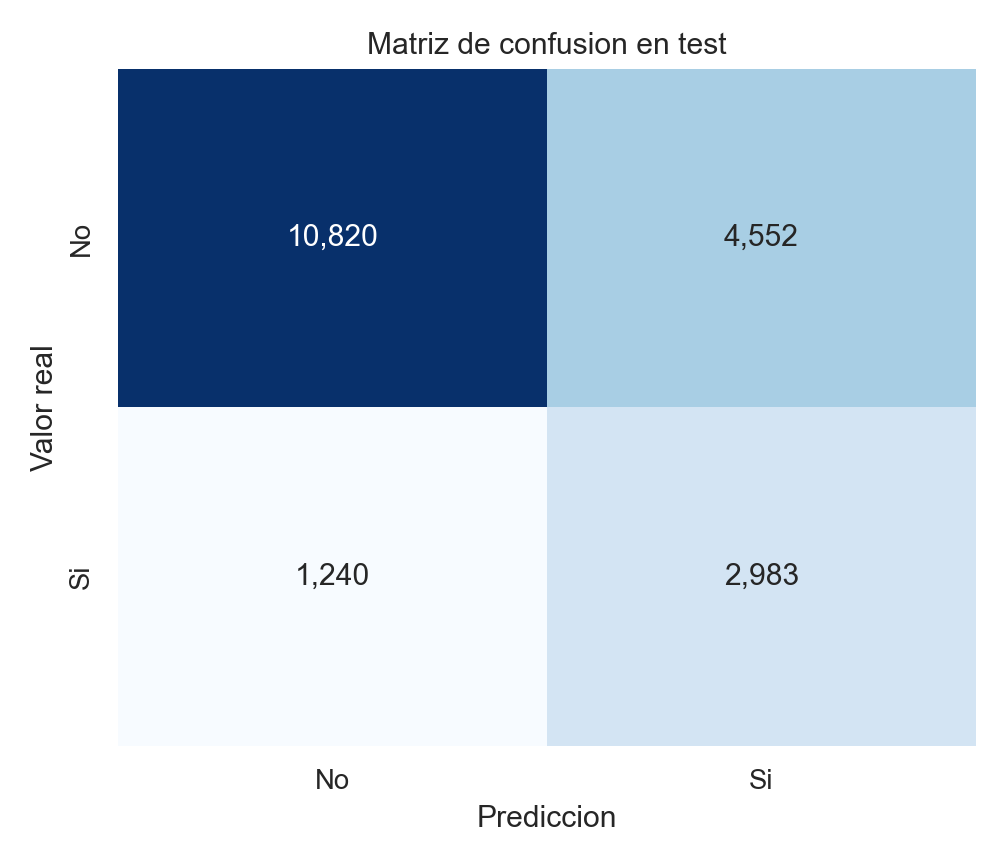
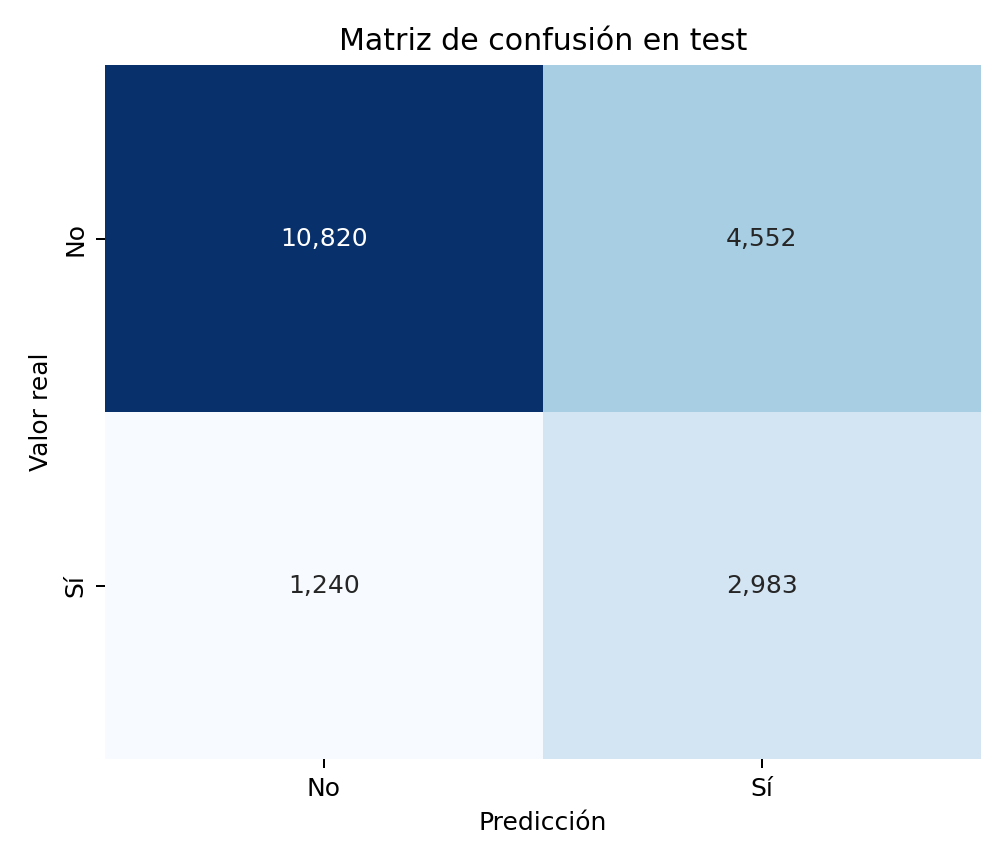
Actualiza trazabilidad y dependencias de la entrega

diff --git a/src/build_final_document.py b/src/build_final_document.py
@@ -226,7 +226,7 @@ def get_prompt_rows(notebook_path: Path) -> list[list[str]]:
         return []
     notebook = read_json(notebook_path)
     rows: list[list[str]] = []
-    pattern = re.compile(r"^### Prompt (\d{2}) — (.+)$", re.MULTILINE)
+    pattern = re.compile(r"^## (\d{2}) — (.+)$", re.MULTILINE)
     for cell in notebook.get("cells", []):
         if cell.get("cell_type") != "markdown":
             continue
@@ -265,7 +265,9 @@ def configure_document(document: Document) -> None:
 
 
 def build_document(args: argparse.Namespace) -> None:
-    root = args.output.parent.parent
+    # La raíz se obtiene desde el propio script para que el documento pueda
+    # guardarse directamente en la carpeta de entrega sin depender de su ruta.
+    root = Path(__file__).resolve().parent.parent
     reports = root / "reports"
     figures = root / "figures"
     results = read_json(reports / "resultados_modelado.json")
@@ -289,7 +291,7 @@ def build_document(args: argparse.Namespace) -> None:
     title.alignment = WD_ALIGN_PARAGRAPH.CENTER
     subtitle = document.paragraphs[1].insert_paragraph_before(
         "Clasificación de presentaciones del Código Único de Medicamentos como muestra médica\n"
-        "Brayam Arboleda Diaz · Saul Dario Gomez · Corte 21/09/2026"
+        "Brayam Arboleda Diaz · Saul Dario Gomez · Corte de datos 21/09/2026 · Revisión 30/09/2026"
     )
     subtitle.alignment = WD_ALIGN_PARAGRAPH.CENTER
     for run in subtitle.runs:
@@ -630,9 +632,9 @@ def build_document(args: argparse.Namespace) -> None:
         ["Artefacto", "Ubicación/enlace", "Estado"],
         [
             ["Dataset snapshot", "data/codigo_unico_medicamentos_vigentes_20260921.csv", "Incluido; SHA-256 verificable"],
-            ["Notebook Colab", args.colab_url, "Público"],
-            ["GitHub", args.github_url, "Público"],
-            ["Streamlit", args.streamlit_url, "Activo"],
+            ["Notebook Colab", args.colab_url, "Público y ejecutado sin errores"],
+            ["GitHub", args.github_url, "Público; rama main actualizada"],
+            ["Streamlit", args.streamlit_url, "Público, activo y funcional"],
             ["Pipeline", "models/pipeline_muestra_medica.joblib", "Recargado y probado"],
             ["Metadata", "models/metadata_modelo.json", "Validado"],
             ["Profiling", "reports/reporte_ydata_profiling.html", "Completo: 155.807 filas"],
@@ -653,11 +655,60 @@ def build_document(args: argparse.Namespace) -> None:
     for conclusion in conclusions:
         document.add_paragraph(f"• {conclusion}")
 
+    deliverables_heading = add_heading(document, "9. Verificación de los seis entregables", 1)
+    deliverables_heading.paragraph_format.page_break_before = True
+    deliverables_table = add_table(
+        document,
+        ["N.º", "Entregable solicitado", "Ubicación o enlace", "Verificación final"],
+        [
+            [
+                "1",
+                "Documento completo con metodología CRISP-DM",
+                "Formato_Entrega_Proyecto_Integrador_CUM.docx",
+                "Completo: fases 1 a 6, evidencia, conclusiones y anexos",
+            ],
+            [
+                "2",
+                "Dataset utilizado",
+                "data/codigo_unico_medicamentos_vigentes_20260921.csv",
+                "Incluido; corte 21/09/2026 y SHA-256 registrado",
+            ],
+            [
+                "3",
+                "Enlace público a Google Colab",
+                "Abrir Google Colab",
+                "Público; ejecución rápida completa verificada",
+            ],
+            [
+                "4",
+                "Repositorio de GitHub",
+                "Abrir repositorio GitHub",
+                "Incluye app.py, pipeline, requirements.txt y README.md",
+            ],
+            [
+                "5",
+                "URL activa de Streamlit.io",
+                "Abrir aplicación Streamlit",
+                "Pública, activa y con predicción funcional verificada",
+            ],
+            [
+                "6",
+                "Reporte HTML generado con ydata-profiling",
+                "reports/reporte_ydata_profiling.html",
+                "Incluido: 7.980.306 bytes y 155.807 filas perfiladas",
+            ],
+        ],
+    )
+    add_hyperlink(deliverables_table.cell(3, 2), "Abrir Google Colab", args.colab_url)
+    add_hyperlink(deliverables_table.cell(4, 2), "Abrir repositorio GitHub", args.github_url)
+    add_hyperlink(deliverables_table.cell(5, 2), "Abrir aplicación Streamlit", args.streamlit_url)
+
     add_heading(document, "Anexo A. Registro de prompts", 1)
-    prompt_rows = get_prompt_rows(root / "notebooks" / "Proyecto_Final_ML_CUM.ipynb")
+    prompt_rows = get_prompt_rows(root / "notebook" / "Proyecto_Final_ML_CUM.ipynb")
     add_table(document, ["ID", "Propósito", "Verificación humana"], prompt_rows)
 
-    add_heading(document, "Anexo B. Trazabilidad técnica", 1)
+    technical_heading = add_heading(document, "Anexo B. Trazabilidad técnica", 1)
+    technical_heading.paragraph_format.page_break_before = True
     add_table(
         document,
         ["Elemento", "Valor"],

diff --git a/src/build_notebook.py b/src/build_notebook.py
@@ -165,6 +165,7 @@ def build_notebook() -> nbf.NotebookNode:
             "pandas": "pandas",
             "scipy": "scipy",
             "sklearn": "scikit-learn",
+            "sklearn_compat": "sklearn-compat==0.1.6",
             "imblearn": "imbalanced-learn==0.14.2",
             "matplotlib": "matplotlib",
             "seaborn": "seaborn",
@@ -574,7 +575,7 @@ def build_notebook() -> nbf.NotebookNode:
 
     prompt(
         13,
-        "DDistribución del objetivo y las líneas base",
+        "Distribución del objetivo y las líneas base",
         "Calcula prevalencia por presentación, accuracy de la clase mayoritaria y PR-AUC "
         "esperada al azar. Grafica conteos y porcentajes con etiquetas legibles.",
     )

diff --git a/README.md b/README.md
@@ -75,25 +75,25 @@ El conjunto de entrenamiento contiene **45.740 presentaciones (6.706 expedientes
 | Modelo | F1 CV agrupada, media ± DE | F1 en test |
 |---|---:|---:|
 | Regresión logística | 0,4846 ± 0,0097 | 0,4890 |
-| SVM lineal | 0,4831 ± 0,0086 | 0,4866 |
+| SVM lineal | 0,4830 ± 0,0085 | 0,4865 |
 | Red neuronal MLP | 0,4918 ± 0,0065 | 0,4924 |
 | Árbol de decisión | 0,4880 ± 0,0114 | 0,4908 |
-| K vecinos más cercanos | 0,4700 ± 0,0098 | 0,4589 |
+| K vecinos más cercanos | 0,4699 ± 0,0089 | 0,4587 |
 | Votación | 0,5016 ± 0,0066 | 0,5059 |
-| **Bagging** | **0,5061 ± 0,0032** | **0,5082** |
+| **Bagging** | **0,5063 ± 0,0032** | **0,5074** |
 | Boosting AdaBoost | 0,4862 ± 0,0128 | 0,4844 |
 | Regresión logística ajustada | 0,4851 ± 0,0104 | 0,4889 |
 | SVM lineal ajustada | 0,4874 ± 0,0113 | 0,4858 |
 
-Se seleccionó **Bagging** antes de abrir el test. Superó a la regresión logística ajustada por **0,0211 F1** en validación, por encima del margen práctico de 0,02. La prueba de Friedman indicó diferencias globales (`p = 0,000229`) y la comparación pareada Bagging–logística ajustada conservó significancia tras corrección de Holm (`p ajustado = 0,0303`). La mejor cuadrícula logística usó `C = 0,1` y L2; la SVM ajustada usó `C = 0,1` y pérdida `hinge`.
+Se seleccionó **Bagging** antes de abrir el test. Superó a la regresión logística ajustada por **0,0213 F1** en validación, por encima del margen práctico de 0,02. La prueba de Friedman indicó diferencias globales (`p = 0,000229`) y la comparación pareada Bagging–logística ajustada conservó significancia tras corrección de Holm (`p ajustado = 0,0295`). La mejor cuadrícula logística usó `C = 0,1` y L2; la SVM ajustada usó `C = 0,1` y pérdida `hinge`.
 
 Desempeño final de Bagging en el test no visto:
 
 | Accuracy | Precisión | Recall | F1 | Accuracy balanceada | ROC-AUC | PR-AUC |
 |---:|---:|---:|---:|---:|---:|---:|
-| 0,7055 | 0,3970 | 0,7061 | **0,5082** | 0,7057 | 0,7799 | 0,4900 |
+| 0,7044 | 0,3959 | 0,7064 | **0,5074** | 0,7051 | 0,7799 | 0,4901 |
 
-La matriz de confusión es `[[10.842, 4.530], [1.241, 2.982]]`: se detectaron 2.982 de los 4.223 positivos del test. La accuracy de la línea base mayoritaria es mayor (0,7845), pero su recall y F1 son cero porque nunca identifica una muestra médica; este contraste confirma por qué F1 y las métricas por clase son las referencias correctas.
+La matriz de confusión es `[[10.820, 4.552], [1.240, 2.983]]`: se detectaron 2.983 de los 4.223 positivos del test. La accuracy de la línea base mayoritaria es mayor (0,7845), pero su recall y F1 son cero porque nunca identifica una muestra médica; este contraste confirma por qué F1 y las métricas por clase son las referencias correctas.
 <!-- RESULTADOS_MODELO_FIN -->
 
 La tabla comparativa completa está en `reports/metricas_validacion_cruzada.csv` y `reports/metricas_test.csv`; los puntajes por fold están en `reports/metricas_cv_por_fold.csv`. La selección del modelo no se modifica después de consultar el test.
